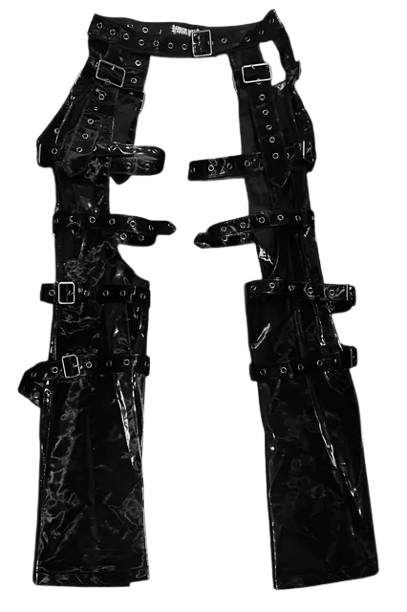
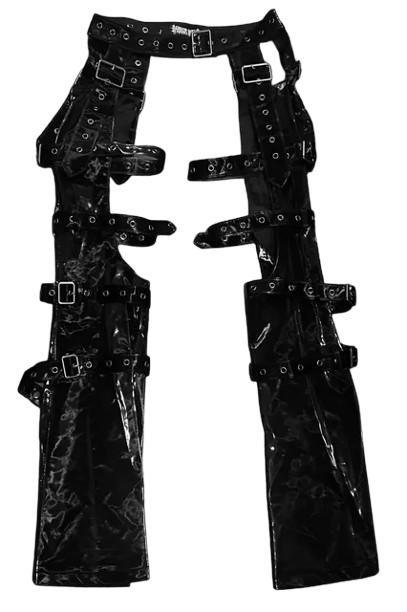
.

diff --git a/fashion/log/pvc.html b/fashion/log/pvc.html
@@ -22,37 +22,37 @@
 <article>
   <h2>Context</h2>
   <div>
-    <p>These days I've taken to use my body to further express my fascination with plastic vinyl. I'm <a href="https://en.wikipedia.org/wiki/Rubber_and_PVC_fetishism" target="_blank">addicted</a> to the ways vinyl fabric bunches up and the way it amplifies curves of my body. Painting it just isn't enough.</p>
-	<p>I'm mostly into plastic for showing myself off and marinating in the sweat I make when wearing it, and there's no better way to do that but through the glossy, resistant rub of vinyl plastic. I've also gotten compliments when I wear these pieces at the after hours, so I've been chasing this feeling of being admired like a plastic doll when I wear it.</p>
-	<p>Here's some of my favorite pieces.</p>
+    <p>These days I've taken to use my body to further express my fascination with plastic vinyl. I'm addicted to the ways vinyl fabric bunches up and the way it amplifies curves of my body, and honestly painting this feeling simply just isn't enough.</p>
+	<p>I'm mostly into plastic clubwear for showing myself off and marinating in the sweat I make when wearing it, and there's no better way to do that but through plastic's glossy, resistant rub. I've gotten compliments when I wear these pieces at the after hours, so I've been chasing that particular feeling...</p>
   </div>
 </article>
 <article>
-  <h2>Lip Service's Elbow Length PVC Gloves</h2>
+  <h2>The Gear</h2>
   <div>
-    <h3>2025.12.02</h3>
-	<span style="text-align:center;"><img src="../../media/closet/armwear/lipservice_pvcgloves.png" alt="Elbow Length Fingerless PVC Gloves from Lip Service" title="Elbow Length Fingerless PVC Gloves from Lip Service"></span>
-	<p>The <a href="https://lip-service.com/collections/accessories/products/elbow-length-fingerless-pvc-gloves" target="blank">classic PVC gloves</a>. The lining is soft and unintrusive for daily wear and the PVC is even softer.</p>
-  </div>
-</article>
-<article>
-  <h2>Mobbunny PVC Keyhole Top</h2>
-  <div>
-    <h3>2025.12.09</h3>
-	<span style="text-align:center;"><img src="../../media/closet/tops/pvc_keyhole_top01.png"  alt="PVC Keyhole Top from Mobbunny." title="PVC Keyhole Top from Mobbunny."></span>
-	<p>I've looked everywhere online for something in the exact cut I was thinking of and nothing came close to <a href="https://www.mobbunny.com/Sexy-Lingerie-Set-Gothic-Nurse-Style-Short-Top-and-Lace-Up-Hollow-Out-Half-Skirt-with-Gloves-Headband-256495p.html" target="_blank">this piece</a> which originates from a Chinese erotic costume store, Mobbunny.</p>
-	<p>I made several edits to the top to my better reflect my vision. I removed the tags and sleeve decoratives, cut off any excess velcros/fabric, and sewn the straps to align with the nipple.</p>
-	<div class="mediaList">
-		<img src="../../media/rl_pics/2026_07_28.jpg" class="image" alt="" loading="lazy" onclick="img='../../media/rl_pics/2026_07_28.jpg';enlarge();">
-	</div>
-  </div>
-</article>
-<article>
-  <h2>Darker Wavs Vinyl Chaps</h2>
-  <div>
-    <h3>2026.08.06</h3>
-	<span style="text-align:center;"><img src="../../media/closet/bottoms/darkerwavs_vinylchaps.png"  alt="Vinyl Chaps from Darker Wavs." title="Vinyl Chaps from Darker Wavs."></span>
-	<p>These are the xxs <a href="https://www.dollskill.com/products/ambient-strappy-chaps?cf=black" target="_blank">ambient strappy chaps</a>, they sell for $150usd but I got them as a gift. under I'm preferential to chaps. It feels amazing, thick, and I love how it squeaks against itself. It's best paired with platforms since they run very long.</p>
+    <table>
+	  <tr>
+	    <td style="width:160px;"><img src="../../media/closet/armwear/lipservice_pvcgloves.png" alt="Elbow Length Fingerless PVC Gloves from Lip Service" title="Elbow Length Fingerless PVC Gloves from Lip Service" onclick="img='../../media/closet/armwear/lipservice_pvcgloves.png';enlarge();"></td>
+		<td>
+		  <h3>Lip Service's <a href="https://lip-service.com/collections/accessories/products/elbow-length-fingerless-pvc-gloves" target="blank">Elbow Length PVC Gloves</a> (2025.12.02)</h3>
+		  <p>A classic fetish staple piece. The spandex is soft and unintrusive for daily wear and the PVC is even softer.</p>
+		</td>
+	  </tr>
+	  <tr>
+	    <td><img src="../../media/closet/tops/pvc_keyhole_top01.png"  alt="PVC Keyhole Top from Mobbunny." title="PVC Keyhole Top from Mobbunny." onclick="img='../../media/closet/tops/pvc_keyhole_top01.png';enlarge();"></td>
+		<td>
+		  <h3>Mobbunny <a href="https://www.mobbunny.com/Sexy-Lingerie-Set-Gothic-Nurse-Style-Short-Top-and-Lace-Up-Hollow-Out-Half-Skirt-with-Gloves-Headband-256495p.html" target="_blank">PVC Keyhole Top</a> (2025.12.09)</h3>
+		  <p>I've looked everywhere online for something in the exact cut I was thinking of and nothing came close to which originates from a Chinese erotic costume store, Mobbunny.</p>
+	      <p>I made several edits to the top to my better reflect my vision. I removed the tags and sleeve decoratives, cut off any excess velcros/fabric, and sewn the straps to align with the nipple.</p>
+		</td>
+	  </tr>
+	  <tr>
+	    <td><img src="../../media/closet/bottoms/darkerwavs_vinylchaps.png"  alt="Vinyl Chaps from Darker Wavs." title="Vinyl Chaps from Darker Wavs." onclick="img='../../media/closet/bottoms/darkerwavs_vinylchaps.png';enlarge();"></td>
+		<td>
+		  <h3>Darker Wavs <a href="https://www.dollskill.com/products/ambient-strappy-chaps?cf=black" target="_blank">Ambient Strappy Chaps</a> (2026.08.06)</h3>
+		  <p>I can't get over how thick the material on these are and how the legs squeak against each other. I'm preferential to chap in general since my heart skips when my inner thighs is the only exposed skin on my legs.</p>
+		</td>
+	  </tr>
+	</table>
   </div>
 </article>
 </main>

diff --git a/fashion/log/aatp_cheshirecatset.html b/fashion/log/aatp_cheshirecatset.html
@@ -35,7 +35,7 @@
   <div>
     <div class="flex">
 	  <img src="../../media/closet/tops/aatp_cheshirecatsparachuteshirt.gif"  alt="Cheshire Cat's Parachute Shirt from Alice And The Pirates (2017)" title="Cheshire Cat's Parachute Shirt from Alice And The Pirates (2017)" onclick="img='../../media/closet/tops/aatp_cheshirecatsparachuteshirt.gif';enlarge();">
-	  <img src="../../media/closet/bottoms/aatp_cheshirecatsballoonpantswithhipbag.png"  alt="Cheshire Cat's Balloon Pants with Hip Bag from Alice And The Pirates (2017)" title="Cheshire Cat's Balloon Pants with Hip Bag from Alice And The Pirates (2017)"onclick="img='../../media/closet/bottoms/aatp_cheshirecatsballoonpantswithhipbag.png';enlarge();">
+	  <img src="../../media/closet/bottoms/aatp_cheshirecatsballoonpantswithhipbag.png"  alt="Cheshire Cat's Balloon Pants with Hip Bag from Alice And The Pirates (2017)" title="Cheshire Cat's Balloon Pants with Hip Bag from Alice And The Pirates (2017)" onclick="img='../../media/closet/bottoms/aatp_cheshirecatsballoonpantswithhipbag.png';enlarge();">
 	</div>
 	<p>This is the black colorway for the <a href="https://lolibrary.org/items/aatp-cheshire-cats-parachute-shirt" target="_blank">parachute shirt</a> and <a href="https://lolibrary.org/items/aatp-cheshire-cats-balloon-pants-with-hip-bag" target="_blank">balloon pants</a></p>
     <p>Most "parachute shirts" callback to Vivienne Westwood, after <a href="https://www.metmuseum.org/art/collection/search/129974" target="_blank">this shirt</a> sold under her "SEX" label in the 70's. When you see rings, buckles, and clamp straps constructed on a shirt like this, it's because of Westwood. Thin and lightweight, so wear it an undershirt underneath. I treat it more like a jacket if anything.</p>
